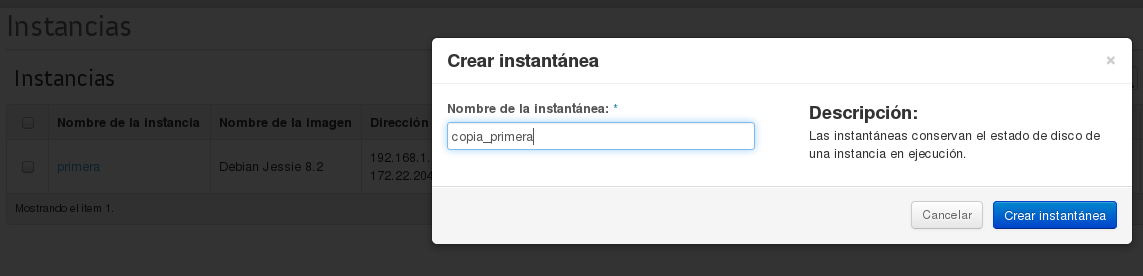
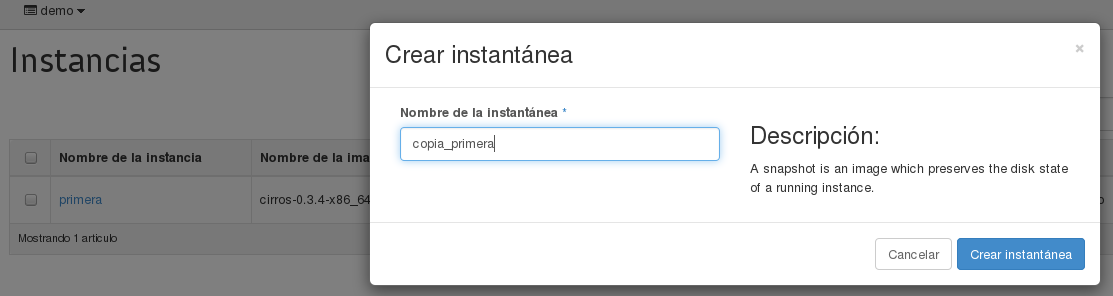
Cambio imágenes de kilo

diff --git a/curso/u3/instantaneas.md b/curso/u3/instantaneas.md
@@ -15,22 +15,15 @@ nuevas instancias que se deseen, este proceso es diferente cuando se
 utilizan volúmenes para almacenar el sistema raíz de una instancia,
 como se verá en el siguiente tema.
 
-Veamos cómo se hace partiendo de una instancia Debian que se está
+Veamos cómo se hace partiendo de una instancia que se está
 ejecutando.
 
 Vamos a acceder a la instancia y vamos a realizar un cambio sobre
 ella, lo mas sencillo es crear un fichero de texto.
 
-	$ ssh -i clave_demo.pem debian@172.22.204.143			
-	The programs included with the Debian GNU/Linux system are free software;
-	the exact distribution terms for each program are described in the
-	individual files in /usr/share/doc/*/copyright.			
-	Debian GNU/Linux comes with ABSOLUTELY NO WARRANTY, to the extent
-	permitted by applicable law.
-	Last login: Fri Dec 25 21:20:54 2015 from 172.19.0.26
-	debian@primera:~$ touch nuevo_fichero.txt
-	debian@primera:~$
-
+	$ ssh -i clave_demo.pem cirros@172.24.4.4			
+	$ touch nuevo_fichero.txt
+	
 
 A continuación vamos a realizar una instantánea de la instancia,
 con lo que se nos creará una nueva imagen desde la que podremos crear
@@ -57,14 +50,7 @@ hemos asignado una nueva IP pública y a la que hemos asociado la
 clave SSH mi_clave.pem), y comprobar que tiene el fichero que
 creamos en la instancia anterior: 
 
-	$ ssh -i clave_demo.pem debian@172.22.204.144			
-	The programs included with the Debian GNU/Linux system are free software;
-	the exact distribution terms for each program are described in the
-	individual files in /usr/share/doc/*/copyright.			
-	Debian GNU/Linux comes with ABSOLUTELY NO WARRANTY, to the extent
-	permitted by applicable law.
-	Last login: Fri Dec 26 21:20:54 2015 from 172.19.0.26
-	debian@primera_2:~$ ls
+	$ ssh -i clave_demo.pem cirros@172.24.4.5			
+	$ ls
 	nuevo_fichero.txt
-	debian@primera_2:~$ 
-
+	
